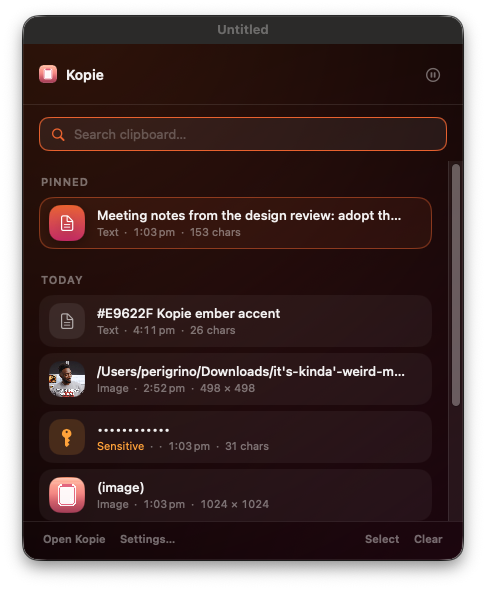
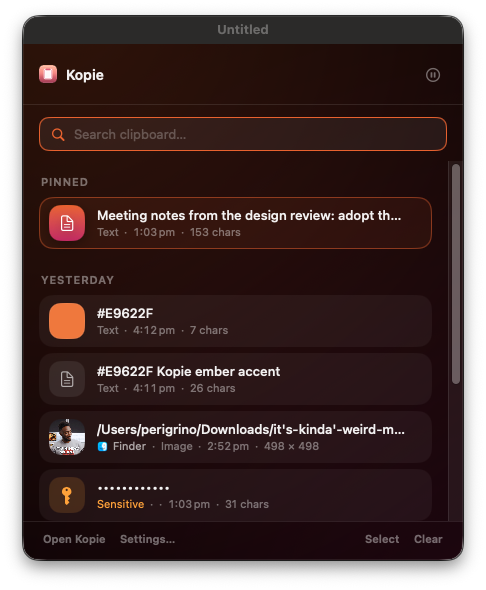
fix(popover): show the copied-from source app in menu-bar rows again
The Ember redesign's compact popover rows dropped the source app per the
prototype mock; users missed knowing where an item came from. Restore the
app icon + name (11pt, 3px radius) at the head of every row's metadata,
including compact popover rows.

Also refresh the README popover screenshot to match.

diff --git a/Sources/Kopie/UI/HistoryRow.swift b/Sources/Kopie/UI/HistoryRow.swift
@@ -143,9 +143,10 @@ struct HistoryRow: View {
 
     @ViewBuilder private var metadataLine: some View {
         HStack(spacing: 5) {
-            // Popover compact rows drop the source app per the spec mock
-            // ("Text · 5:10 pm · 74 chars"); main list rows keep it.
-            if !compact, let sourceApp = item.sourceApp {
+            // Every row shows where the item was copied from (icon + app
+            // name); the main list additionally tags sensitive items after
+            // the type label.
+            if let sourceApp = item.sourceApp {
                 Image(nsImage: AppIconResolver.icon(for: sourceApp, size: NSSize(width: 11, height: 11)))
                     .frame(width: 11, height: 11)
                     .clipShape(RoundedRectangle(cornerRadius: 3, style: .continuous))
@@ -154,13 +155,13 @@ struct HistoryRow: View {
                     .foregroundStyle(Theme.textSecondary(for: scheme))
                     .lineLimit(1)
             }
-            if !compact && item.sourceApp != nil {
+            if item.sourceApp != nil {
                 Text("·")
                     .font(.system(size: Theme.tMeta))
                     .foregroundStyle(Theme.textTertiary(for: scheme))
             }
-            // Sensitive rows lead with the warn-colored tag (compact) or keep
-            // the type label and tag them after it (main list, line 657).
+            // Sensitive rows lead with the warn-colored tag in the popover
+            // or tag them after the type label in the main list.
             if compact && item.isSensitive {
                 Text("Sensitive")
                     .font(.system(size: Theme.tMeta))
